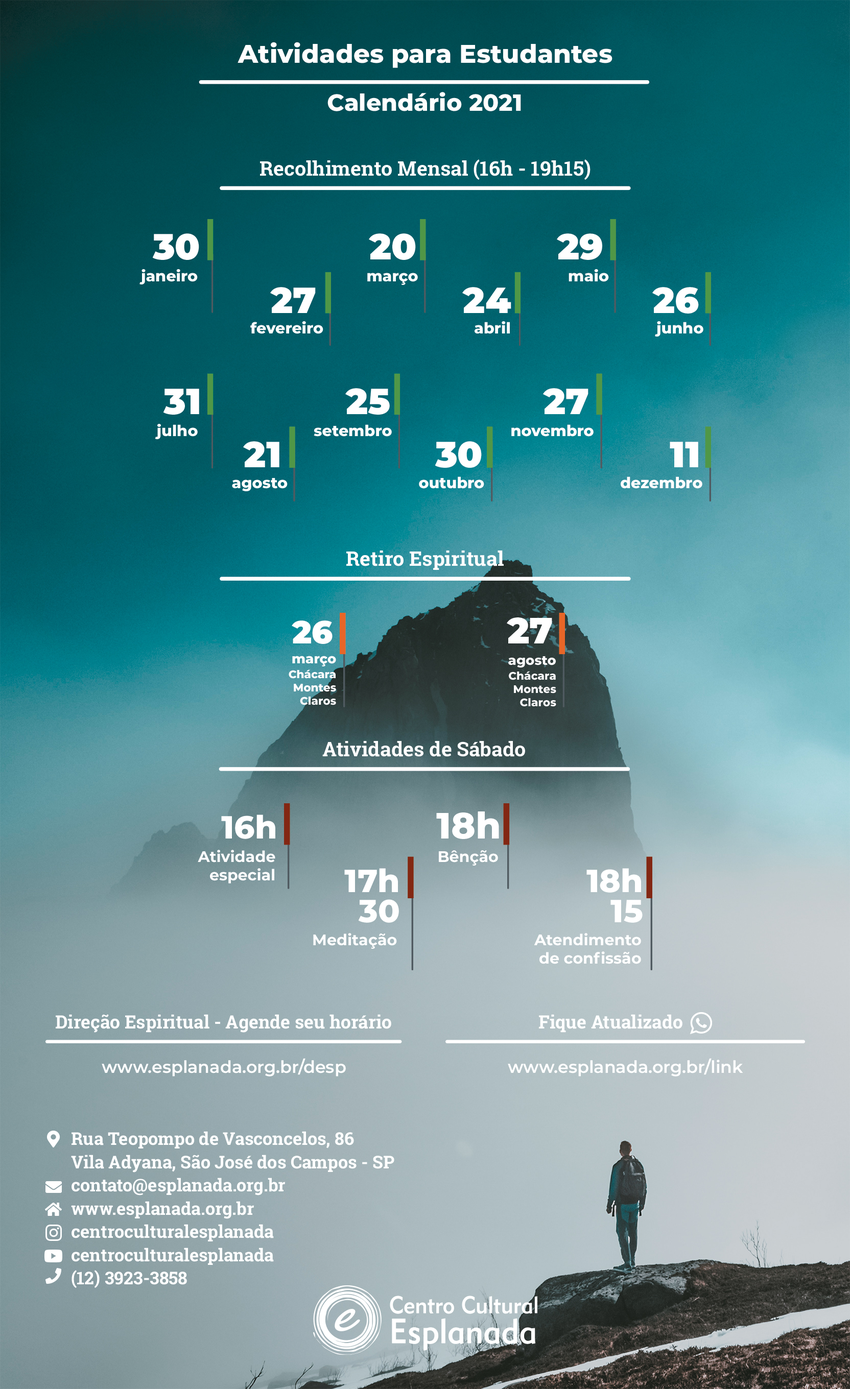
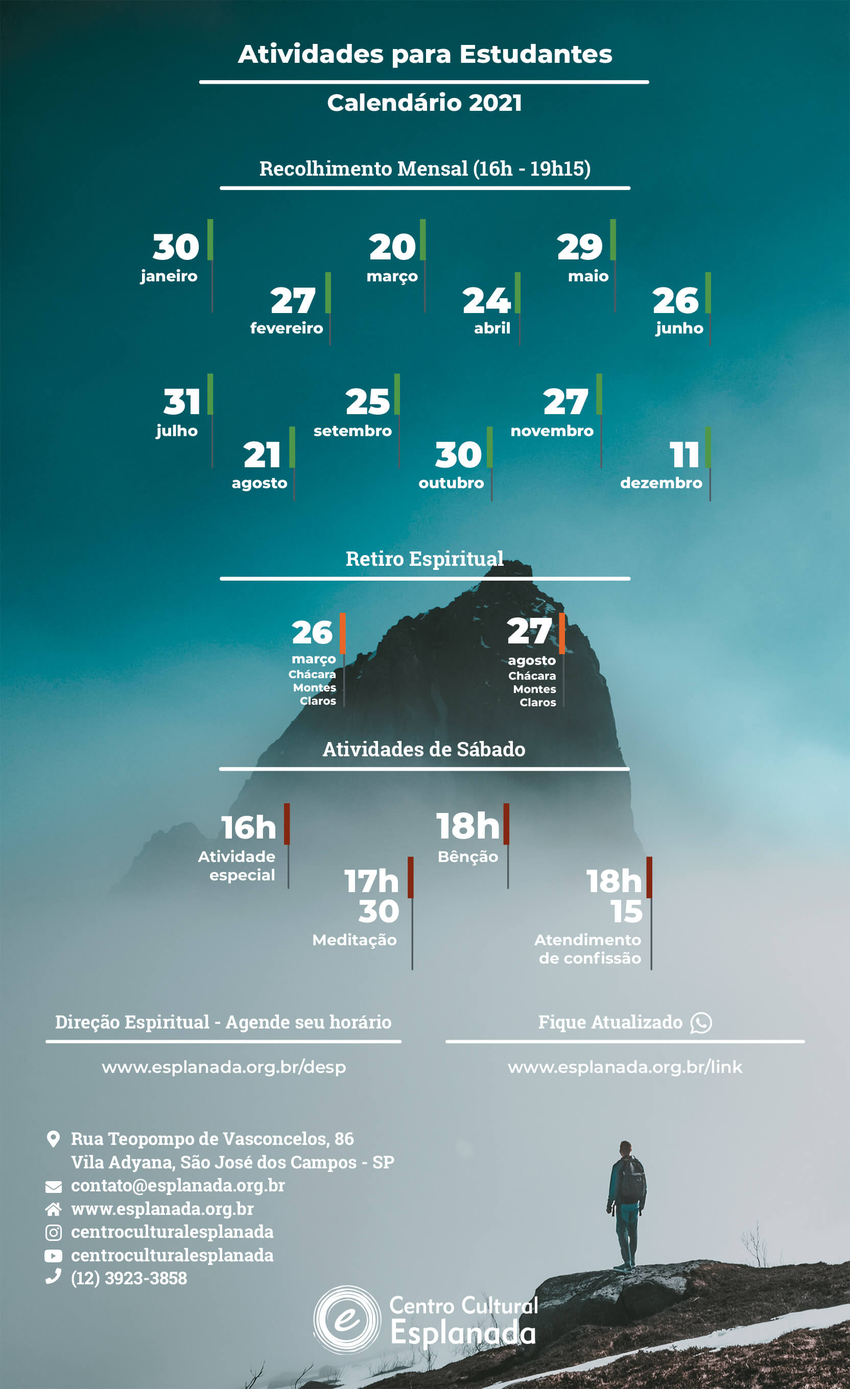
Resize calendars images

diff --git a/_includes/sidebar.html b/_includes/sidebar.html
@@ -34,7 +34,7 @@
             <p>Fale conosco através dos links abaixo</p>
             <ul class="contact">
                 <li class="icon solid fa-envelope"><a href="mailto:contato@esplanada.org.br" target="_blank">contato@esplanada.org.br</a></li>
-                <li class="icon solid fa-phone"><a href="callto:+551239233858" target="_blank"></a>(12) 3923-3858</li>
+                <li class="icon solid fa-phone"><a href="callto:+551239233858" target="_blank">(12) 3923-3858</a></li>
                 <li class="icon solid fa-home">Rua Teopompo de Vasconcelos, 86<br />
                 Vila Adyana, São José dos Campos - SP, 12243-830</li>
                 <li class="icon solid fa-map-marker-alt"><a href="https://goo.gl/maps/TF6zhZJwWJYVSrEd9" target="_blank">Como chegar</a></li>
